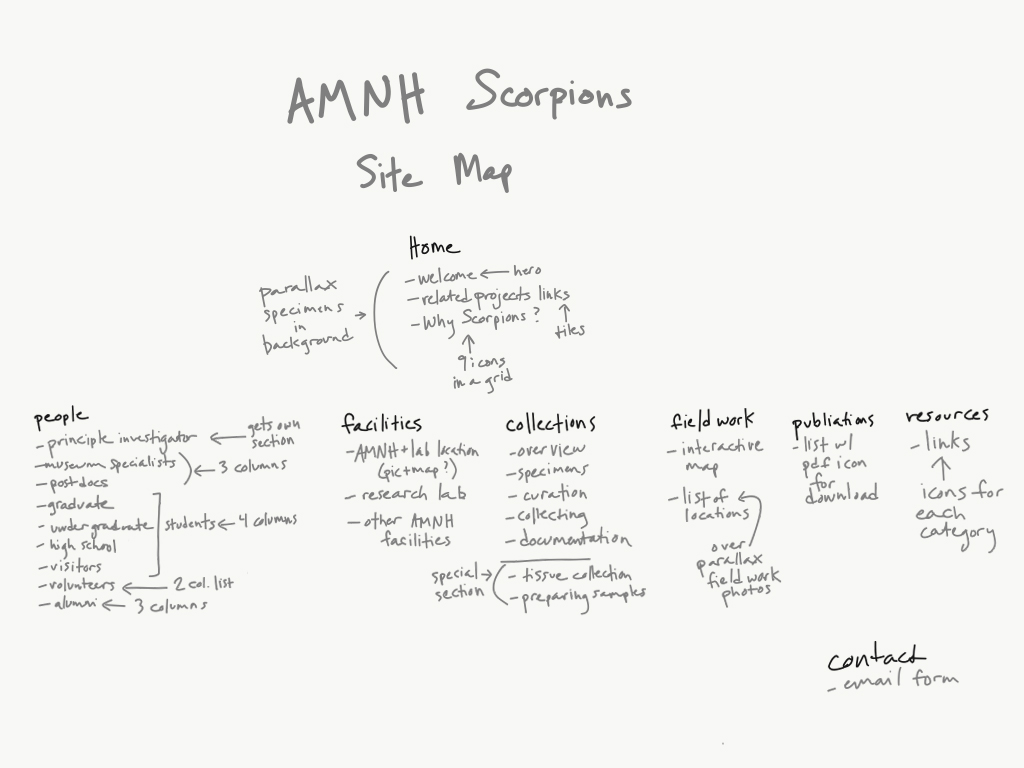
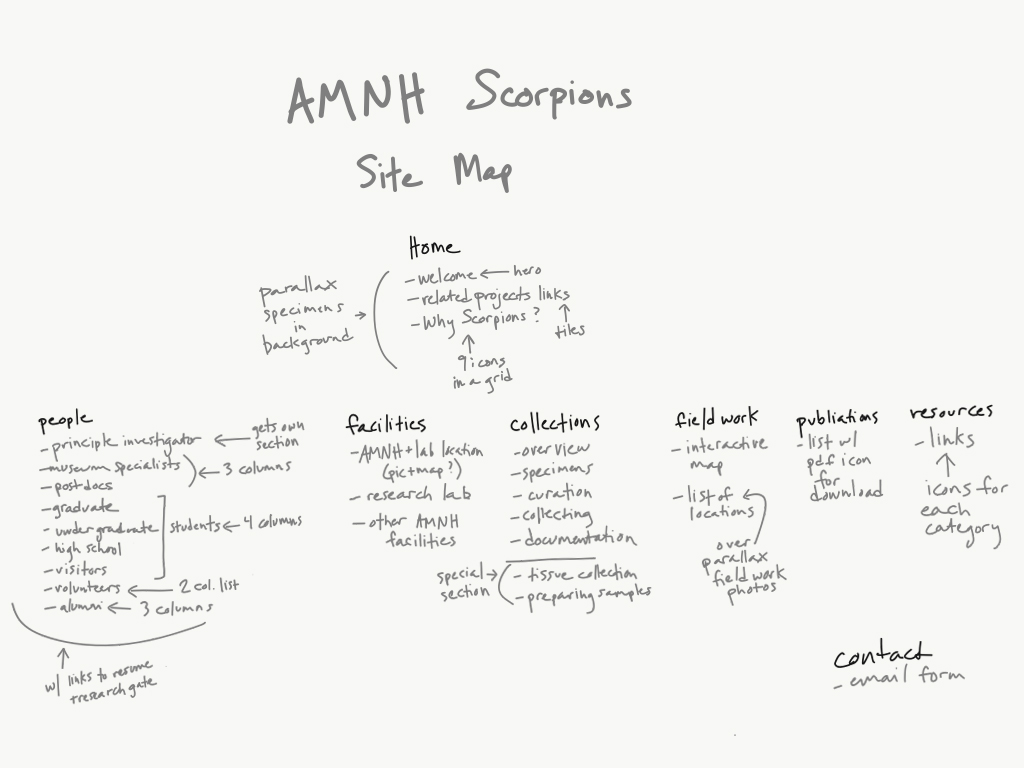
updated sitemap

diff --git a/Final_Project/final-project-worksheet.md b/Final_Project/final-project-worksheet.md
@@ -17,7 +17,9 @@ The Goal of this project is to redesign the website of the Scorpion Systematics 
 
 ## Wireframes
 
-Include wireframes for all pages included in the site including:
+Sitemap:
+
+![MacDown logo](http://macdown.uranusjr.com/static/images/logo-160.png)
 
 ### Landing Page
 
